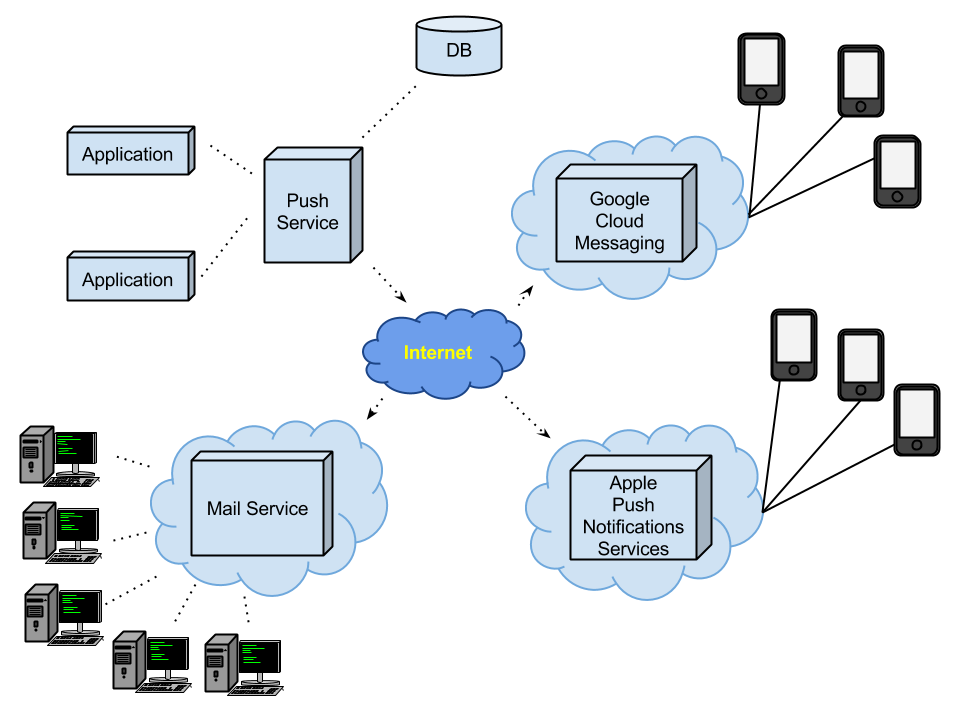
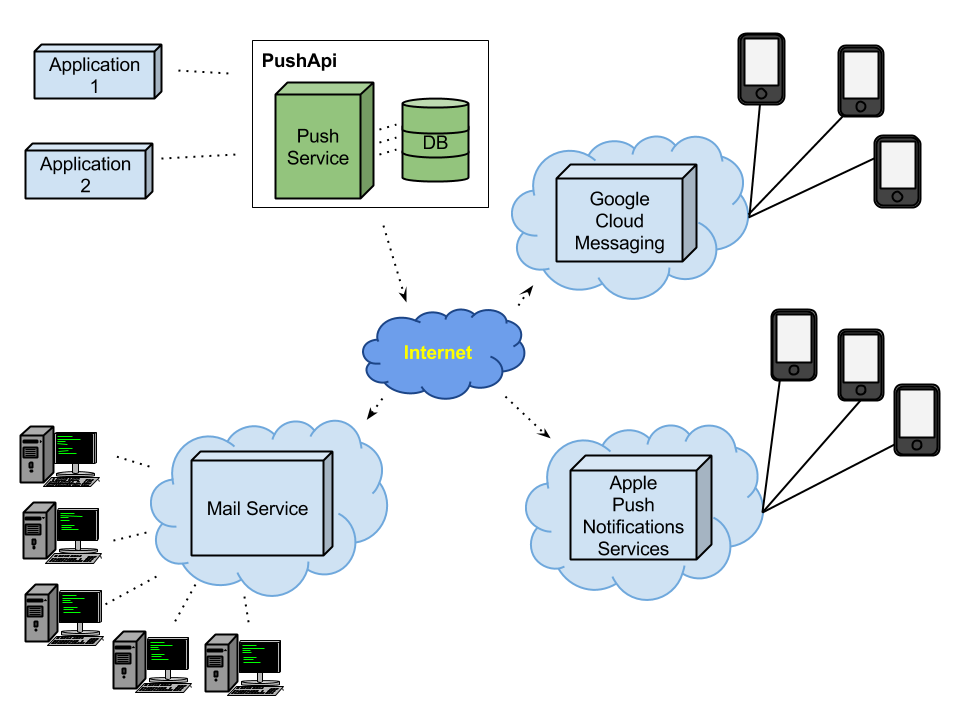
- Updated README documentation with new images and TODO list

diff --git a/README.md b/README.md
@@ -10,10 +10,11 @@
     - [Twitter](#twitter)
   - [Schemes](#schemes)
     - [General view](#general-view)
-    - [More](#more)
+    - [DataBase](#database)
 - [Tools used](#tools-used)
 - [Comments](#comments)
 - [Support](#support)
+- [Pending](#pending)
 
 ## Introduction
 
@@ -23,7 +24,7 @@ The PushApi is a server side project using PHP. It provides a way to notify user
 
 ### How it works
 
-The API has an internal database (the tables will be described in the database scheme [More](#more)).
+The API has an internal database (the tables will be described in the database scheme [DataBase](#database)).
 In order to receive events, users must be registered into the API and then they can be subscribed into different Themes (this themes will be set by the administrator of the API). When user subscribes into a new Theme, user can choose where he wants to receive the notification (mail, smartphone, all, ...), by default, notifications will be sent via all the devices in order to force him to set its preferences.
 The multicast Themes are assigned to different Channels that users can also subscribe.
 
@@ -63,9 +64,13 @@ This is a possible scheme of what the project wants to be:
 
 ![pushApi](img/option3.png)
 
-#### More
+#### DataBase
 
-Comming soon
+The current MySQL tables used are the following ones:
+
+![pushApi](img/db_design.png)
+
+It is not represented in any scheme but there are 3 Redis Lists used in order to queue the notifications before send them properly.
 
 [Back to index](#index)
 
@@ -86,5 +91,18 @@ Comming soon
 ## Support
 
 If you want to give your opinion, you can send me an email or comment the project directly (if you want to contribute with information or resources). Once the official degree project finished, I will accept foreign contributions if you are interested in.
+
+[Back to index](#index)
+
+## Pending
+
+Here are some pending tasks to do that aren't developed yet.
+
+- Update the Android worker checking the GCM responses and update user data if it is required (some special cases required).
+- Use [Forever](http://github.com/nodejitsu/forever) with the workers.
+- Develop tests (it is one of the most important things while programing and I haven't got time to develop it yet).
+- To log most of the functionalities.
+- Create a Client that uses the API.
+- Create some kind of mail template in order to send a better email.
 
 Thank you.
